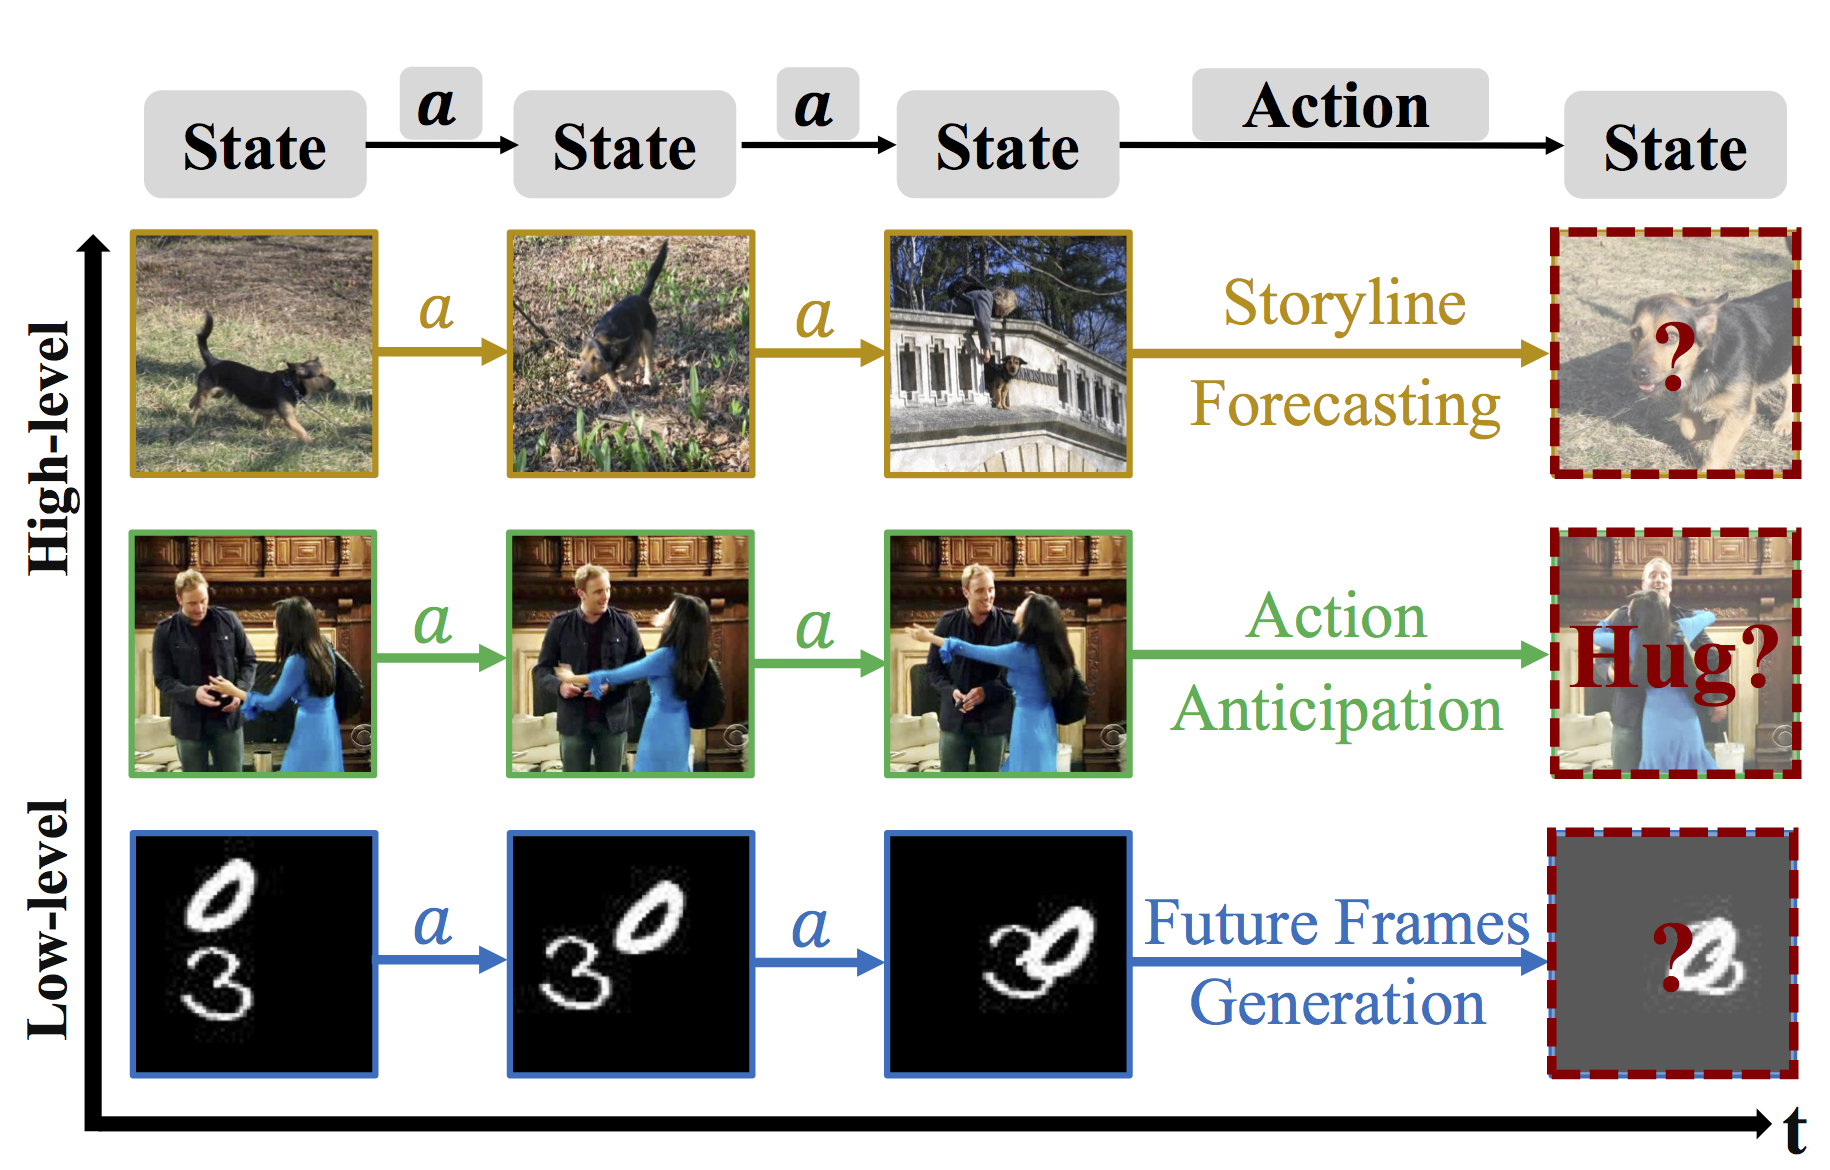
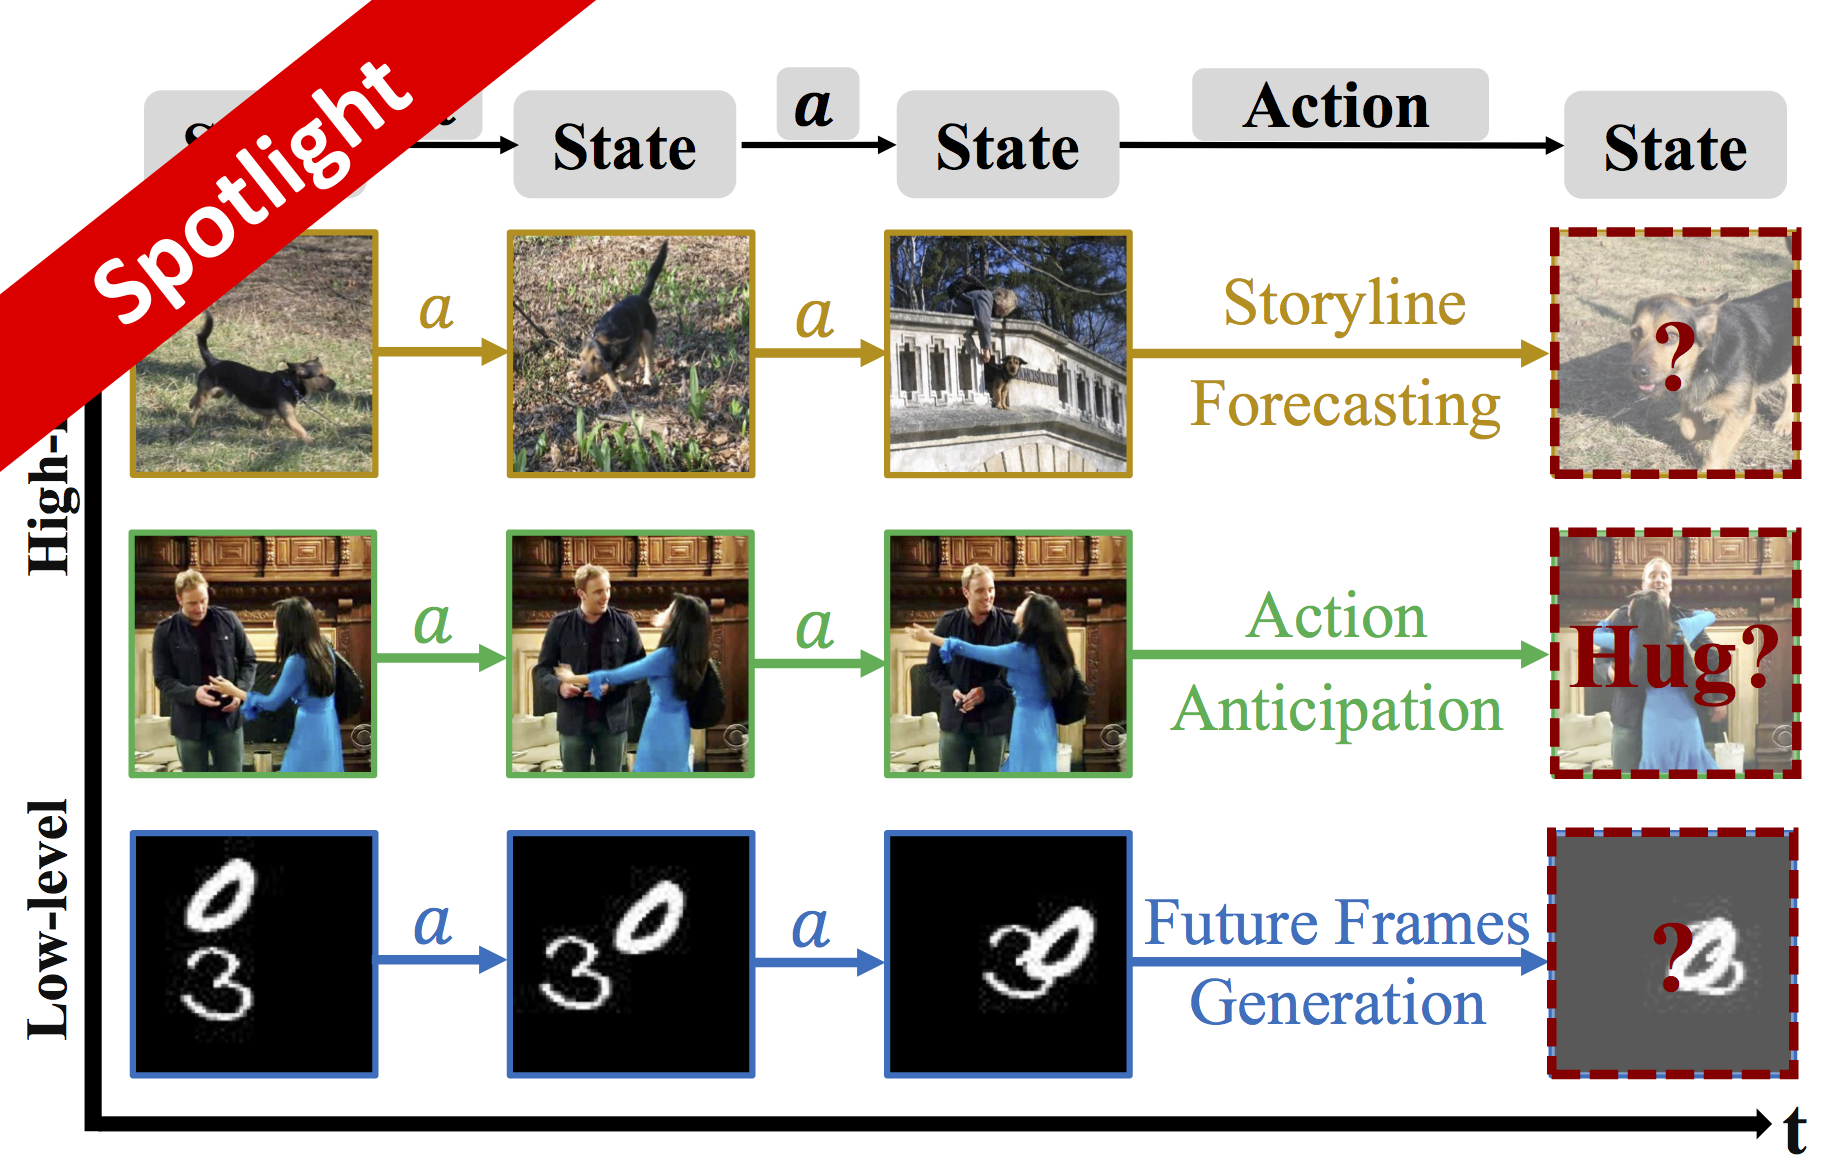
update

Changed region(s): [[0.0, 0.0, 0.3426, 0.4]]

diff --git a/index.html b/index.html
@@ -139,10 +139,10 @@
 
 <div><img style="float: left;" src="/images/ant_imitation.jpg" height="165"></a>
 <font size="3">
-<div style="line-height:1.5">&nbsp;<b>Visual Forecasting by Imitating Dynamics in Natural Sequences</b></a>
+<div style="line-height:1.5">&nbsp;<b>Visual Forecasting by Imitating Dynamics in Natural Sequences</b></a>&nbsp;<img src="/images/Spotlight.jpeg" height="25">
 <div style="line-height:1.5">&nbsp;<b>Kuo-Hao Zeng</b>, William B. Shen, De-An Huang, Min Sun, Juan Carlos Niebles</a>
 <div style="line-height:1.5">&nbsp;<i>IEEE International Conference on Computer Vision (ICCV), 2017</i></a>
-<div style="line-height:1.5">&nbsp;[<a href="https://KuoHaoZeng.github.io">arXiv</a>]&nbsp;[<a href="http://KuoHaoZeng.github.io">project page</a>]</a>
+<div style="line-height:1.5">&nbsp;[<a href="https://arxiv.org/abs/1708.05827">arXiv</a>]&nbsp;[<a href="http://ai.stanford.edu/~khzeng/projects/vfid/">project page</a>]</a>
 </font>
 </div>
 
